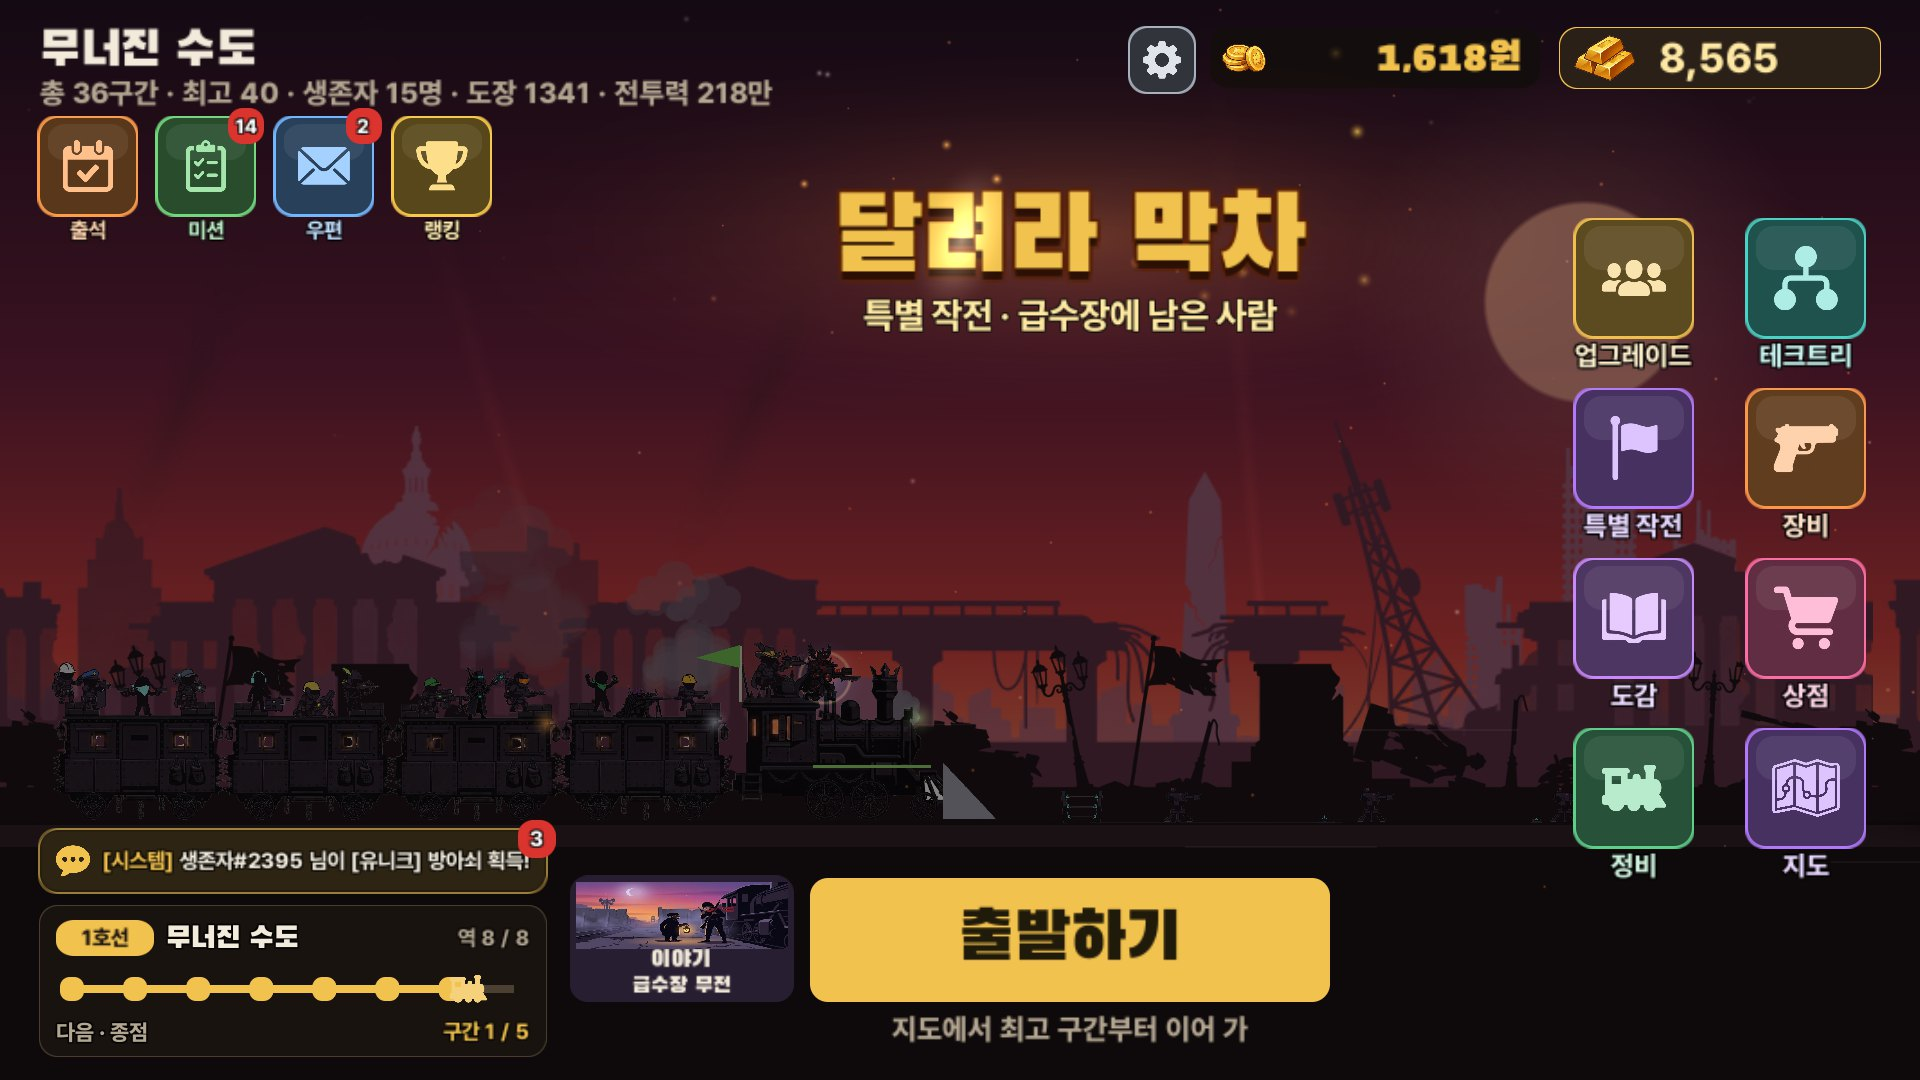
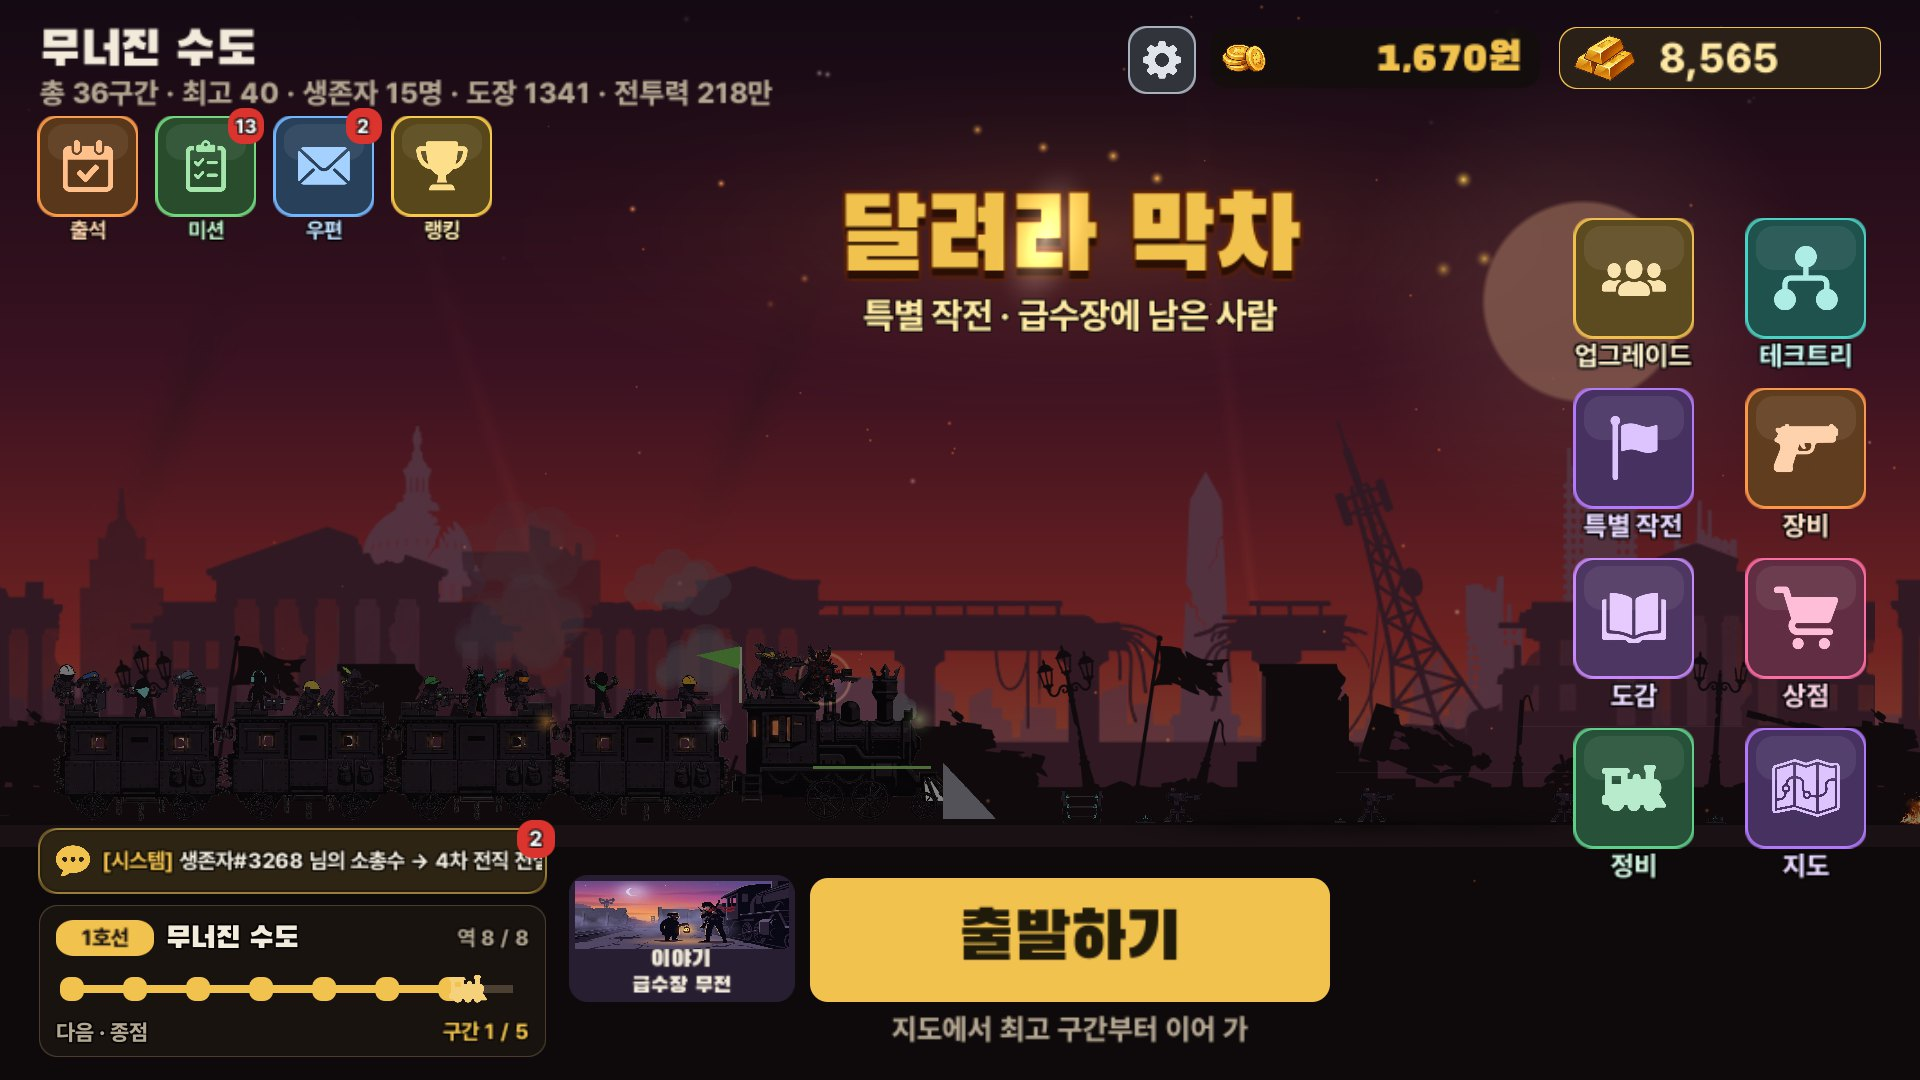
확률 정보: 게임 안에서 확률을 보는 곳(특별 작전 [확률 정보] · 설정 → 지원) 안내
Claude-Session: https://claude.ai/code/session_01BdhUj2oavV3XL5oDCqP7Nf

diff --git a/odds.html b/odds.html
@@ -19,8 +19,8 @@
 <main class="wrap doc">
 <h1>확률 정보</h1>
 <p class="meta">달려라 막차: 좀비 디펜스 · 기준: 게임 버전 0.22.0 · 공시일 2026년 9월 28일</p>
-<p>「게임산업진흥에 관한 법률」에 따라 게임 안에서 결과가 확률로 정해지는 아이템의 종류와 확률을 공개합니다. 장비 뽑기의 등급 확률과 천장까지 남은 횟수는 게임의 뽑기 화면에도 표시됩니다. 확률은 반올림해 적었기 때문에 합이 100%와 조금 다를 수 있습니다.</p>
-<p class="en" lang="en">This page lists every item in the game whose result is decided by chance, with its odds, as required by Korean law. Grade odds and the pity counter for the gear draw are also shown in the game. Figures are rounded, so rows may not add up to exactly 100%.</p>
+<p>「게임산업진흥에 관한 법률」에 따라 게임 안에서 결과가 확률로 정해지는 아이템의 종류와 확률을 공개합니다. 게임 안에서는 특별 작전 창의 [확률 정보]와 설정 → 지원 → 확률 정보에서 무기 상자 · 작전 보상 장비 · 장비 뽑기의 확률을 볼 수 있고, 장비 뽑기 화면에도 등급 확률과 천장까지 남은 횟수가 늘 표시됩니다. 확률은 반올림해 적었기 때문에 합이 100%와 조금 다를 수 있습니다.</p>
+<p class="en" lang="en">This page lists every item in the game whose result is decided by chance, with its odds, as required by Korean law. In the game, open [Drop rates] in the Special Ops window or Settings → Support → Drop rates to see the weapon crate, op gear and gear draw odds; the gear draw screen always shows its grade odds and the pity counter. Figures are rounded, so rows may not add up to exactly 100%.</p>
 
 <h2 id="gacha">1. 장비 뽑기 <small class="note" lang="en">Gear draw</small></h2>
 <p>금괴로 뽑습니다. 1회 금괴 30, 10회 금괴 270이며, 광고를 보고 하루 1회 무료로 뽑을 수 있습니다. 10회 뽑기와 광고 뽑기도 1회 뽑기와 확률이 같고, 10회 뽑기에 따로 보장되는 등급은 없습니다. 한 번에 장비 1개가 나오며 종류(무기 부품 · 장신구) · 부품 · 등급이 모두 무작위로 정해집니다.</p>
